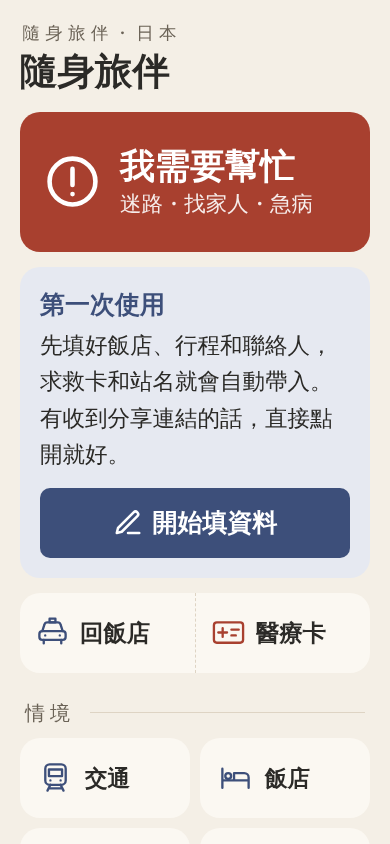
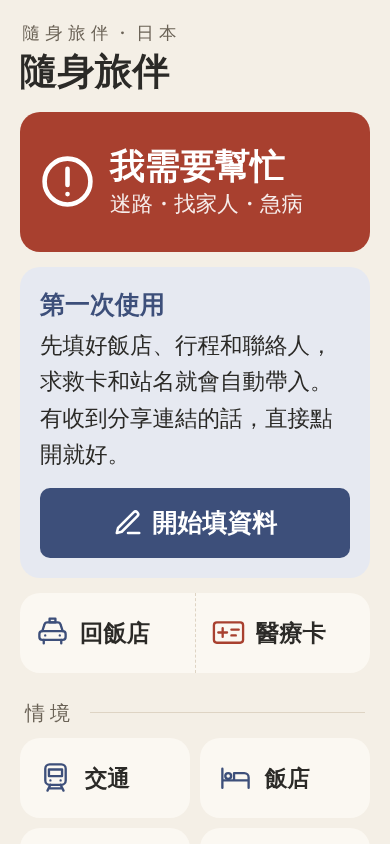
Review fixes: phone numbers fit their line, hotel name only with a kana reading, 'have' answers
- Phone numbers are sized to their own line (container query units), so
  TEL and the 010 form fit a 320 px phone at 特大; the layout matrix adds
  320×640 at 特大, which also found home's help link and scene tiles
  (one column there now).
- hotelSay decides from the ruby hotelWord produces.
- Drugstore 〜はありますか phrases get a 'have' answer set.
- The medical-card jump ignores empty medicine cards.
- content-guide.md: the answer sets as they are now.

Claude-Session: https://claude.ai/code/session_01HCVzmT4sZctHsc4m8wUAkT

Changed region(s): [[0.2769, 0.154, 0.8, 0.2773], [0.0923, 0.1848, 0.2462, 0.2464]]

diff --git a/src/content/scenes/drugstore.ts b/src/content/scenes/drugstore.ts
@@ -8,13 +8,13 @@ export default {
   icon: "pill",
   phrases: [
     // Asked, not demanded: 〜はありますか reads politely to a pharmacist; 〜がほしいです sounded blunt.
-    { id: "drugstore-cold", zh: "有感冒藥嗎？", jp: "{風邪薬|かぜぐすり} は あります か。" },
-    { id: "drugstore-fever", zh: "有退燒藥嗎？", jp: "{解熱剤|げねつざい} は あります か。" },
-    { id: "drugstore-headache", zh: "有頭痛藥嗎？", jp: "{頭痛薬|ずつうやく} は あります か。" },
-    { id: "drugstore-stomach", zh: "有腸胃藥嗎？", jp: "{胃腸薬|いちょうやく} は あります か。" },
-    { id: "drugstore-diarrhea", zh: "有止瀉藥嗎？", jp: "{下痢止|げりど}め は あります か。" },
-    { id: "drugstore-motion", zh: "有暈車藥嗎？", jp: "{酔|よ}い{止|ど}め は あります か。" },
-    { id: "drugstore-itch", zh: "有蚊蟲咬傷的藥嗎？", jp: "{虫刺|むしさ}され の {薬|くすり} は あります か。" },
+    { id: "drugstore-cold", zh: "有感冒藥嗎？", jp: "{風邪薬|かぜぐすり} は あります か。" , answers: "have" },
+    { id: "drugstore-fever", zh: "有退燒藥嗎？", jp: "{解熱剤|げねつざい} は あります か。" , answers: "have" },
+    { id: "drugstore-headache", zh: "有頭痛藥嗎？", jp: "{頭痛薬|ずつうやく} は あります か。" , answers: "have" },
+    { id: "drugstore-stomach", zh: "有腸胃藥嗎？", jp: "{胃腸薬|いちょうやく} は あります か。" , answers: "have" },
+    { id: "drugstore-diarrhea", zh: "有止瀉藥嗎？", jp: "{下痢止|げりど}め は あります か。" , answers: "have" },
+    { id: "drugstore-motion", zh: "有暈車藥嗎？", jp: "{酔|よ}い{止|ど}め は あります か。" , answers: "have" },
+    { id: "drugstore-itch", zh: "有蚊蟲咬傷的藥嗎？", jp: "{虫刺|むしさ}され の {薬|くすり} は あります か。" , answers: "have" },
     { id: "drugstore-plaster", zh: "OK 繃在哪裡？", jp: "{絆創膏|ばんそうこう} は どこ です か。", answers: "direction" },
     { id: "drugstore-eye-drops", zh: "眼藥水在哪裡？", jp: "{目薬|めぐすり} は どこ です か。", answers: "direction" },
     { id: "drugstore-mask", zh: "口罩在哪裡？", jp: "マスク は どこ です か。", answers: "direction" },

diff --git a/tests/fill.test.ts b/tests/fill.test.ts
@@ -109,7 +109,7 @@ describe("repliesFor", () => {
 
   it("resolves every named set to a non-empty list ending with わかりません, but the toilet's yes or no", () => {
     const names = Object.keys(REPLY_SETS) as ReplySet[];
-    expect(names.sort()).toEqual(["borrow", "direction", "exit", "medicineOk", "place", "platform", "time", "yesNo"]);
+    expect(names.sort()).toEqual(["borrow", "direction", "exit", "have", "medicineOk", "place", "platform", "time", "yesNo"]);
     for (const name of names) {
       const replies = repliesFor(name);
       expect(replies.length, name).toBeGreaterThan(0);
@@ -124,7 +124,7 @@ describe("repliesFor", () => {
       expect(repliesFor(name).at(-2), name).toEqual(WRITE_IT);
       expect(repliesFor(name).filter((r) => r.jp === WRITE_IT.jp), name).toHaveLength(1);
     }
-    for (const name of ["yesNo", "borrow", "medicineOk"] as const) expect(repliesFor(name), name).not.toContainEqual(WRITE_IT);
+    for (const name of ["yesNo", "borrow", "medicineOk", "have"] as const) expect(repliesFor(name), name).not.toContainEqual(WRITE_IT);
   });
 
   it("lists platforms 1 to 27 with their readings (Shin-Osaka's Shinkansen go to 27)", () => {

diff --git a/src/ui/lines.ts b/src/ui/lines.ts
@@ -8,7 +8,8 @@ import { h } from "./dom";
  */
 export function lineNode(line: Line, cls = ""): HTMLElement {
   if (typeof line === "string") return h("p", { class: `break-words ${cls}` }, line);
-  // Up to 20 characters on one line ("TEL +886 912-345-678", "010-886-912-345-678）"): shrinks to fit.
-  const number = h("span", { class: "inline-block whitespace-nowrap text-[min(1em,7vw)]" }, line.label ? `${line.phone}）` : `TEL\u00a0${line.phone}`);
-  return h("p", { class: cls }, line.label && `（${line.label}：`, number);
+  // Up to 20 characters on one line ("TEL +886 912-345-678", "010-886-912-345-678）"): sized to the
+  // width of its own line (cqi: the paragraph is the container), so it fits however narrow the card.
+  const number = h("span", { class: "inline-block whitespace-nowrap text-[min(1em,8.4cqi)]" }, line.label ? `${line.phone}）` : `TEL\u00a0${line.phone}`);
+  return h("p", { class: `[container-type:inline-size] ${cls}` }, line.label && `（${line.label}：`, number);
 }

diff --git a/src/ui/home.ts b/src/ui/home.ts
@@ -76,7 +76,7 @@ export function renderHome(root: HTMLElement): void {
         "a",
         {
           href: "#/help",
-          class: "mt-3 flex min-h-28 items-center gap-4 rounded-2xl bg-sos px-5 py-4 text-sos-on transition active:scale-[0.98]",
+          class: "mt-3 flex min-h-28 items-center gap-3 rounded-2xl bg-sos px-4 py-4 text-sos-on transition active:scale-[0.98]",
         },
         icon("help", "h-11 w-11 shrink-0"),
         h(
@@ -120,7 +120,8 @@ export function renderHome(root: HTMLElement): void {
         heading("情境"),
         h(
           "div",
-          { class: "grid grid-cols-2 gap-2" },
+          // scene-grid: one column on the narrowest phone at 特大, where half a row fits two characters (style.css).
+          { class: "scene-grid grid grid-cols-2 gap-2" },
           SCENES.map((scene, i) =>
             h(
               "a",

diff --git a/src/content/replies.ts b/src/content/replies.ts
@@ -88,6 +88,13 @@ export const REPLY_SETS: Record<ReplySet, Reply[]> = {
     WRITE_IT,
     DONT_KNOW,
   ],
+  // Do you have …? — for 〜はありますか at a shop.
+  have: [
+    { jp: "あります", zh: "有" },
+    { jp: "ありません", zh: "沒有" },
+    { jp: "こちら です", zh: "在這裡（對方會指給你看）" },
+    DONT_KNOW,
+  ],
   // May I use the toilet? — a clerk says yes or no, never "I don't know".
   borrow: [
     { jp: "どうぞ", zh: "可以，請用" },
@@ -105,7 +112,7 @@ export const REPLY_SETS: Record<ReplySet, Reply[]> = {
 
 
 /** Sets whose answers are all there is: nothing to write down. */
-const CLOSED: ReplySet[] = ["yesNo", "borrow", "medicineOk"];
+const CLOSED: ReplySet[] = ["yesNo", "borrow", "medicineOk", "have"];
 
 /**
  * The answers to offer. A named set of places, times or numbers also offers

diff --git a/src/profile/cards.ts b/src/profile/cards.ts
@@ -154,8 +154,10 @@ export function hotelCard(hotel: Hotel): CardBlock {
  * English or Chinese only would be misread, so then it's "this hotel".
  */
 export function hotelSay(hotel: Hotel): Jp {
-  const sayable = hotel.kana.trim() || /[\u3041-\u30fa]/.test(hotel.name);
-  return sayable && plain(hotelWord(hotel)).trim() ? `${hotelWord(hotel)} まで お{願|ねが}い します。` : LINES.taxiToHotel;
+  const word = hotelWord(hotel);
+  // A reading the voice will use (userWord keeps only a pure-kana one, as ruby), or kana in the name.
+  const sayable = word.includes("|") || /[\u3041-\u30fa]/.test(hotel.name);
+  return sayable && plain(word).trim() ? `${word} まで お{願|ねが}い します。` : LINES.taxiToHotel;
 }
 
 const JOIN = "、";

diff --git a/e2e/layout.spec.ts b/e2e/layout.spec.ts
@@ -25,6 +25,8 @@ const VARIANTS: Variant[] = [
   { name: "phone", viewport: { width: 390, height: 844 } },
   { name: "narrow", viewport: { width: 320, height: 640 } },
   { name: "xlarge", viewport: { width: 390, height: 844 }, settings: { textSize: "xlarge" } },
+  // The narrowest phone at 特大: where long numbers and labels are tightest.
+  { name: "narrow-xlarge", viewport: { width: 320, height: 640 }, settings: { textSize: "xlarge" } },
   // The most common Android width, at 特大: where half-width buttons are tightest.
   { name: "xlarge-360", viewport: { width: 360, height: 780 }, settings: { textSize: "xlarge" } },
   { name: "dark", viewport: { width: 390, height: 844 }, settings: { theme: "dark" } },

diff --git a/tests/cards.test.ts b/tests/cards.test.ts
@@ -46,6 +46,8 @@ describe("help card", () => {
     const hotel = sampleProfile().hotels[0]!;
     expect(hotelCard({ ...hotel, name: "Hotel Gracery Shinjuku", kana: "" }).say).toBe(LINES.taxiToHotel);
     expect(hotelCard({ ...hotel, name: "新宿華盛頓酒店", kana: "" }).say).toBe(LINES.taxiToHotel);
+    // A reading that isn't kana is not used by the voice, so it doesn't make the name sayable.
+    expect(hotelCard({ ...hotel, name: "新宿格拉斯麗酒店", kana: "Gracery" }).say).toBe(LINES.taxiToHotel);
     expect(hotelCard({ ...hotel, name: "ホテルグレイスリー新宿", kana: "" }).say).toBe("ホテルグレイスリー新宿 まで お{願|ねが}い します。");
   });
 

diff --git a/src/ui/medical.ts b/src/ui/medical.ts
@@ -149,7 +149,7 @@ export function renderMedical(root: HTMLElement, [target = ""]: string[] = []): 
     profile.birthYear,
     health.bloodType,
     health.conditions.length || health.conditionsOther.trim(),
-    health.meds.length,
+    health.meds.some((m) => m.ingredient.trim() || m.dose.trim()),
     health.drugAllergies.length || health.foodAllergies.length || health.allergyOther.trim(),
     profile.contacts[0]?.name.trim() || profile.contacts[0]?.phone.trim() || profile.contacts[0]?.relation.trim(),
     ins.company.trim() || ins.policy.trim() || ins.phone.trim(),

diff --git a/src/content/types.ts b/src/content/types.ts
@@ -20,7 +20,7 @@ export interface Reply {
 }
 
 /** Ready-made answer sets, so common questions need not repeat them. */
-export type ReplySet = "yesNo" | "platform" | "direction" | "time" | "place" | "exit" | "borrow" | "medicineOk";
+export type ReplySet = "yesNo" | "platform" | "direction" | "time" | "place" | "exit" | "borrow" | "medicineOk" | "have";
 
 /** Something the traveller needs to say. */
 export interface Phrase {

diff --git a/src/style.css b/src/style.css
@@ -192,6 +192,13 @@ body {
   }
 }
 
+/* Home's scene tiles on a 320 px phone at 特大: two per row would break 廁所・問路 one character a line. */
+@media (max-width: 340px) {
+  :root[data-text-size="xlarge"] .scene-grid {
+    grid-template-columns: 1fr;
+  }
+}
+
 [tabindex="-1"]:focus {
   outline: none;
 }

diff --git a/docs/content-guide.md b/docs/content-guide.md
@@ -54,13 +54,16 @@ A phrase with a slot must have `fallback` and `fallbackZh`. When there is no dat
 | Answer set | Contents |
 |---|---|
 | `yesNo` | Yes, no |
-| `platform` | Platforms 1–14 |
+| `have` | We have it, we don't, it's over here (for 〜はありますか, do you have…?) |
+| `borrow` | Go ahead, sorry you can't, there's no toilet (for トイレを借りてもいいですか, may I use the toilet?) |
+| `medicineOk` | It's fine to take, please don't take it, I'll check with the pharmacist |
+| `platform` | Platforms 1–27 |
 | `direction` | Right, left, straight on, behind, upstairs, downstairs, right here |
 | `time` | Right away, about 5/10/30 minutes, about 1 hour |
 | `place` | Nearby, far, inside the station, outside the station, there isn't one |
-| `exit` | East exit, west exit, south exit, north exit, central exit, they write it for you |
+| `exit` | East exit, west exit, south exit, north exit, central exit |
 
-Every set ends with 「不知道」 (I don't know).
+Every set ends with 「不知道」 (I don't know), except `borrow`: a clerk always knows whether the toilet can be used. The open sets (`platform`, `direction`, `time`, `place`, `exit`) also get 「紙に書きます」 (I'll write it on paper) just before it, added by `repliesFor`: an answer the list lacks can still be given. Don't add it to them by hand.
 
 Custom answer sets need at least 2 answers. End with 「不知道」 (I don't know) or 「寫在紙上」 (write it on paper) so the other person has a way out.
 
